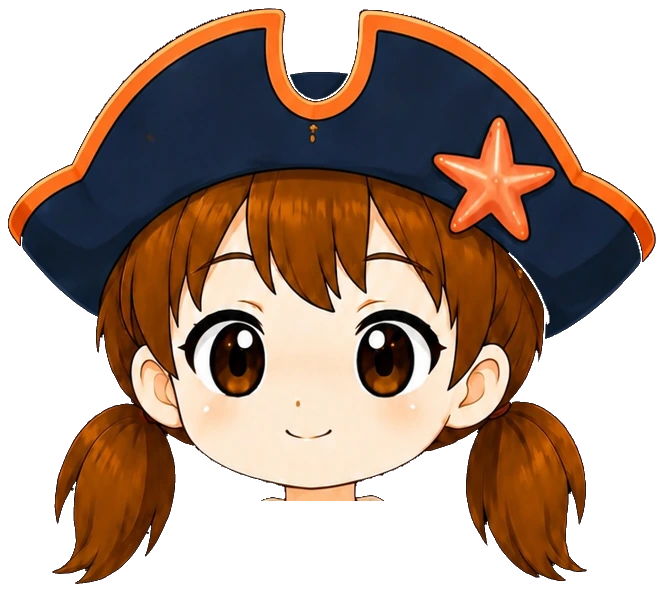
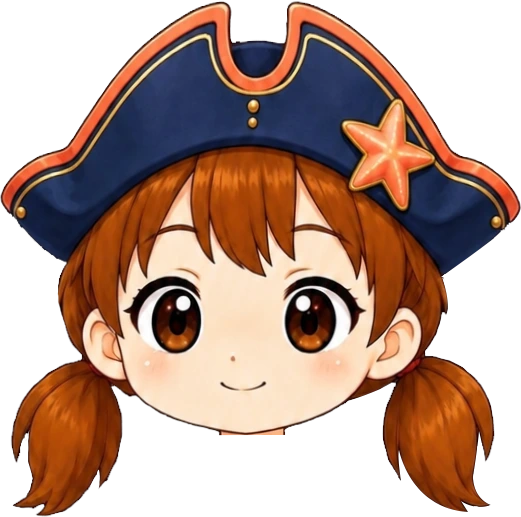
여아 꼬마해적 모자 새 원화로 교체 (#872)
모자+얼굴·양갈래 한 장 원화를 얼굴 템플릿 매칭으로 배율 0.70 에 맞추고 hidesHead 로 여아 기본 머리를 대신한다. img ?v=4.

Claude-Session: https://claude.ai/code/session_018maNuYqDfFyRSe9uKpZhPR

diff --git a/src/data/avatarEquipment.js b/src/data/avatarEquipment.js
@@ -219,7 +219,10 @@ export const AVATAR_CATALOG = [
      들꽃 머리띠와 같은 방식(hidesHead) — 얼굴(눈~입) 템플릿 매칭(일치 0.920)으로 배율 0.6800000000000002, 원점 (329,68). 아래는 자르지 않음.
      탑재 상자 (329,68,697,426). img ?v=4. */
   { id: "hat_picnic",     slot: "hat",   label: "딸기 밀짚모자", emoji: "👒", price:DECOR_PRICE.rare, rarity: "rare", theme: "picnic", forGender: "girl", hidesHead: true, img: "assets/avatar/hat/picnic-hat-girl.webp?v=4", thumb: "assets/avatar/thumb/hat_picnic.webp" },
-  { id: "hat_pirate",     slot: "hat",   label: "꼬마해적 모자",   emoji: "🏴☠", price:DECOR_PRICE.epic, rarity: "epic", theme: "pirate", forGender: "girl", img: "assets/avatar/hat/pirate-hat-girl.webp?v=3", thumb: "assets/avatar/thumb/hat_pirate.webp" },
+  /* [2026-10-04] 꼬마해적 모자 새 원화로 교체 — 남색 삼각 해적모(주황 테두리·불가사리) + 얼굴·양갈래 머리 한 장(사용자 원화 521×517).
+     들꽃 머리띠와 같은 방식(hidesHead) — 얼굴 템플릿 매칭(일치 0.948)으로 배율 0.700, 원점 (337,57). 아래는 자르지 않음.
+     탑재 상자 (337,57,702,419). img ?v=4. */
+  { id: "hat_pirate",     slot: "hat",   label: "꼬마해적 모자",   emoji: "🏴☠", price:DECOR_PRICE.epic, rarity: "epic", theme: "pirate", forGender: "girl", hidesHead: true, img: "assets/avatar/hat/pirate-hat-girl.webp?v=4", thumb: "assets/avatar/thumb/hat_pirate.webp" },
   /* 남아 사파리 모자 [2026-10-02] — 모자+얼굴 한 장(사용자 원화)이라 hidesHead: 쓰면 머리카락 머리 장이 빠지고
      민머리 위에 얹힌다(베이스 v10 구조). 얼굴(눈~입) 템플릿 매칭으로 맞춤(배율 0.4065 · 일치 0.970).
      원화에 달린 목은 z50 이라 높은 깃(우주복·후드·도토리)을 덮어서 기본 머리 장처럼 y404 에서 잘랐다. */

diff --git a/art-src/README.md b/art-src/README.md
@@ -378,7 +378,7 @@ getBoundingClientRect로 재서 정한다. 2026-08-05 점검에서 이 기준을
 | pirate-girl-outfit-src.webp | **해적 옷 원화 여아 — 새 판 (사용자 원화 2026-10-02, 이전 판 교체)**. 416×485 투명 배경, 크림 퍼프 블라우스(둥근 깃·주황 리본·금단추) + 주황 허리띠를 맨 남색 반바지 한 벌. 위쪽에 목(턱 없음)이 함께 그려져 있다. 원화 목 외곽선 x177.5~240.5(폭 63, 중심 209)를 여아 목 중심 x512.5 에, 곧은 목선이 끝나는 원화 y15 를 여아 y372 에 맞추고 배율 0.70(목 폭이 같아지는 값 · 흰 수영복도 이 값부터 0). 목 살(r−b>70)과 목 옆선은 원화 y4→20 동안 0→1 페이드. 조각 1개. 탑재 상자 (366,362,657,702) · imgGirl ?v=4 **[2026-10-02 수정판]** 같은 크기의 사용자 수정판으로 덮어씀 — 반바지 밑단 아래(원화 y320~470)가 조금 늘었다. 같은 탑재값, 탑재 상자 (366,362,657,702) · imgGirl ?v=5 | avatar/top/pirate-outfit-girl.webp · thumb/top_pirate-girl.webp |
 | picnic-girl-hat-worn-src.webp | **딸기 밀짚모자 원화 여아 — 새 판 (사용자 원화 2026-10-04, 이전 판 교체)** — 541×526 투명 배경, 밀짚모자(딸기 리본) + 얼굴·양갈래 머리 한 장. hidesHead 로 여아 기본 머리를 대신한다. 얼굴 템플릿 매칭(일치 0.920)으로 배율 0.6800000000000002·원점 (329,68), 아래는 자르지 않음. 탑재 상자 (329,68,697,426) · img ?v=4 | avatar/hat/picnic-hat-girl.webp |
 | picnic-girl-set-worn-src.webp | **딸기 소풍 세트 전신 그림 여아 (사용자 원화 2026-08-20)** — 860×1829, 알파가 머리 부분만 살아 있어서 **RGB의 검정 배경을 흘려 지워** 썼다. 여기서 신발(발목 아래)만 떼어냈다. 바구니는 손에 가려 조각나서 못 썼다 | **(넣었다가 상점에서 뺌 2026-08-20)** — 그림은 avatar/shoes/picnic-shoes-girl.webp 에 그대로 있다 |
-| pirate-girl-hat-worn-src.webp | **해적 모자 원화 여아 (사용자 원화 2026-08-20)** — 베이스 v7 여아가 **쓰고 있는 머리 그림**(664×592, 투명). 남색 삼각모 + 주황 테두리 + 불가사리. 얼굴 상자로 맞춤(배율 0.6336) · 탑재 상자 (313,58)-(723,329) | avatar/hat/pirate-hat-girl.webp |
+| pirate-girl-hat-worn-src.webp | **꼬마해적 모자 원화 여아 — 새 판 (사용자 원화 2026-10-04, 이전 판 교체)** — 521×517 투명 배경, 남색 삼각 해적모(주황 테두리·불가사리) + 얼굴·양갈래 머리 한 장. hidesHead 로 여아 기본 머리를 대신한다. 얼굴 템플릿 매칭(일치 0.948)으로 배율 0.700·원점 (337,57), 아래는 자르지 않음. 탑재 상자 (337,57,702,419) · img ?v=4 | avatar/hat/pirate-hat-girl.webp |
 | safari-boy-outfit-src.webp | **사파리 옷 원화 남아 v2 (사용자 원화 2026-10-02)** — 493×594, 투명 배경, **옷만 오려 낸 그림**(알파 상자 (30,36)-(462,558)). 초록 긴소매(팔꿈치까지 걷음) 티셔츠 + 카키 카고 조끼 + 카키 카고 반바지. 예전 판(크림 셔츠 + 탄색 조끼)을 대체했고 규칙 6에 따라 같은 이름으로 덮어썼다. **목 살 떼기** — 원화 깃 위로 목·쇄골 살이 그려져 있어, 가장 큰 살색 덩어리의 열 범위에서 초록 깃의 위끝을 4차 곡선으로 매끈하게 이은 선 위를 전부 지우고 그 자리에 2px 짙은 갈색(58,44,34) 깃선을 다시 그렸다 — 베이스의 목이 그대로 보인다. **맞춤** — 베이스 v9 남아 기준, 배율·가로배·위치를 격자로 훑어 "안 가려진 흰 속옷×3 + 안 가려진 어깨(y420~540) + 목 살 덮음 + 몸 밖 불룩×0.5"가 최소인 값: 배율 **0.65** · 가로 **1.02배** · 위끝 **y402** · 가로 중심 **515** → 탑재 상자 (372,402)-(658,733). 소매 끝이 팔꿈치(y≈560), 반바지 끝이 허벅지 가운데. **가랑이 V 메움** — y640~715 · x480~550 에서 "베이스 불투명 + 옷 알파<250" 116px 을 반바지 색 (124,114,74) 으로 채웠다(흰 속옷이 비치던 자리). 자홍 배경 검사: 연결 조각 1 · 안쪽 구멍 0. **[사용자 확정 2026-10-02] 격자로 보며 미세 조정** — 3px 내림 → 2% 키움 → 1px 올림 → 배율 **0.663** · 가로 1.02배 · 위끝 **y404** · 중심 515 → 탑재 상자 **(369,404)-(661,741)**. 가랑이 메움은 같은 규칙으로 64px. 몸통 쪽 안 가려진 속옷 1px. 경로 ?v=6 | avatar/top/safari-outfit-boy.webp · thumb/top_vest.webp |
 | safari-boy-outfit-edit-src.webp | **사파리 옷 남아 — 사용자 손질본 (2026-10-02)**. 위 원화를 배율 0.6564 · 가로 1.02배 · 위끝 y404 · 중심 x514 로 얹은 판을 알파 상자대로 잘라(290×335) 보내 드렸더니, 사용자가 **어깨만 살짝 늘려** 돌려준 그림. 캔버스 크기가 그대로라 (370,404) 에 놓으면 원래 판과 어긋남 0 으로 겹친다(알파 차이 379px — 전부 어깨·소매 둘레). **탑재본은 이 그림을 그대로 쓴다** — 원화(위 행)에서 다시 만들면 어깨 손질이 사라진다. **[2026-10-02 재조정]** 손질본을 **1% 확대** — 배율 0.663 · 가로 1.02배 · 위끝 y404 · 중심 x516 (박스 369,404-662,742). 가랑이 V 메움은 하지 않는다 (사용자 확정). 경로 ?v=9 · 썸네일 ?v=5 | avatar/top/safari-outfit-boy.webp · thumb/top_vest.webp |
 | safari-girl-band-worn-src.webp | **들꽃 머리띠 원화 여아 — 새 판 (사용자 원화 2026-10-04, 이전 판 교체)** — 488×486 투명 배경, 초록 리본 머리띠(흰 들꽃) + 얼굴·양갈래 머리 한 장. hidesHead 로 여아 기본 머리를 대신한다. 얼굴 템플릿 매칭(일치 0.976)으로 배율 0.688·원점 (346,87), 아래는 자르지 않음. 탑재 상자 (346,87,682,421) · img ?v=4 | avatar/hat/safari-band-girl.webp |
